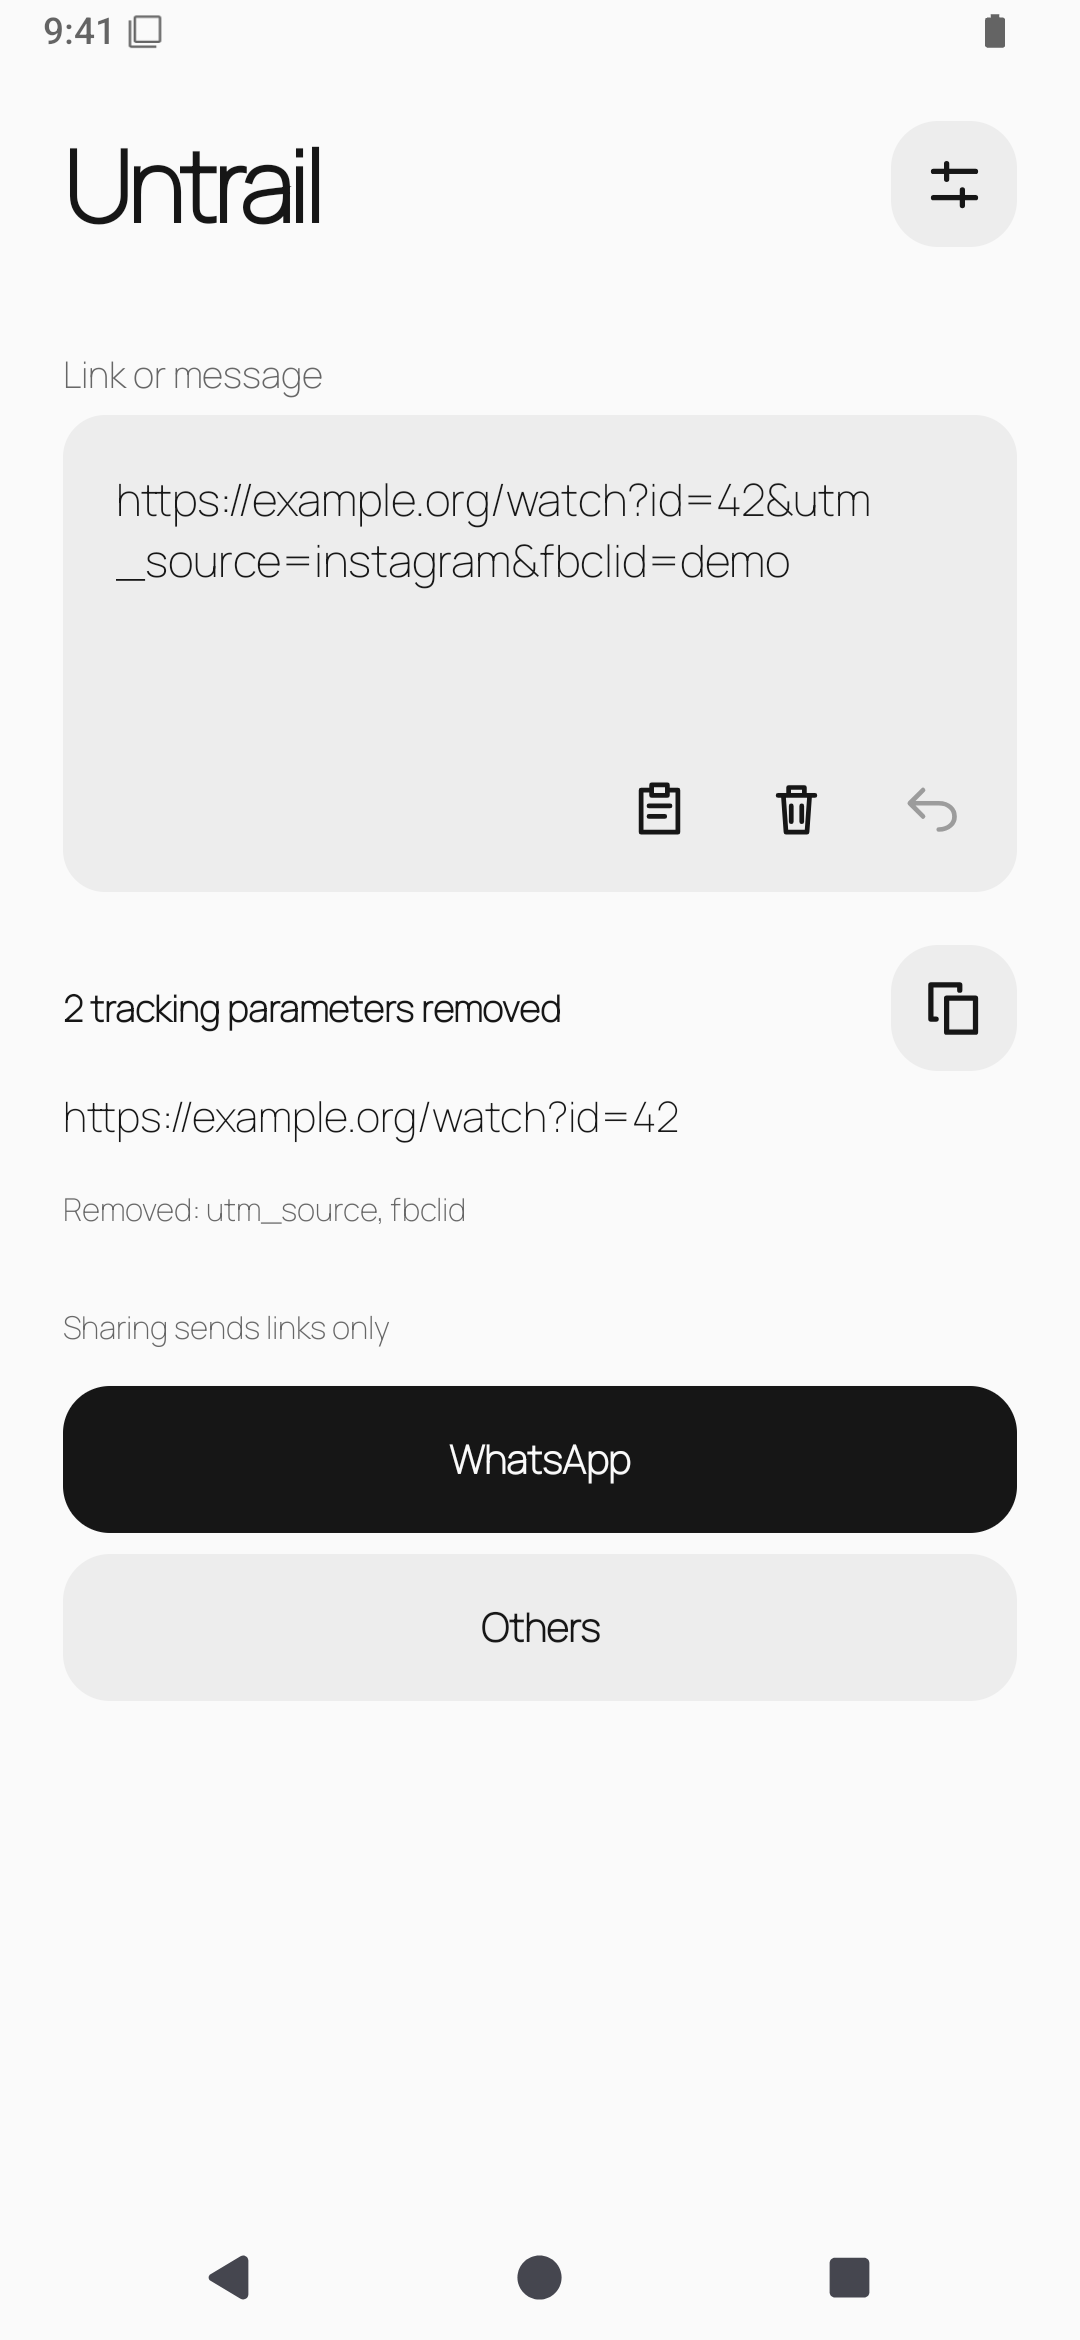
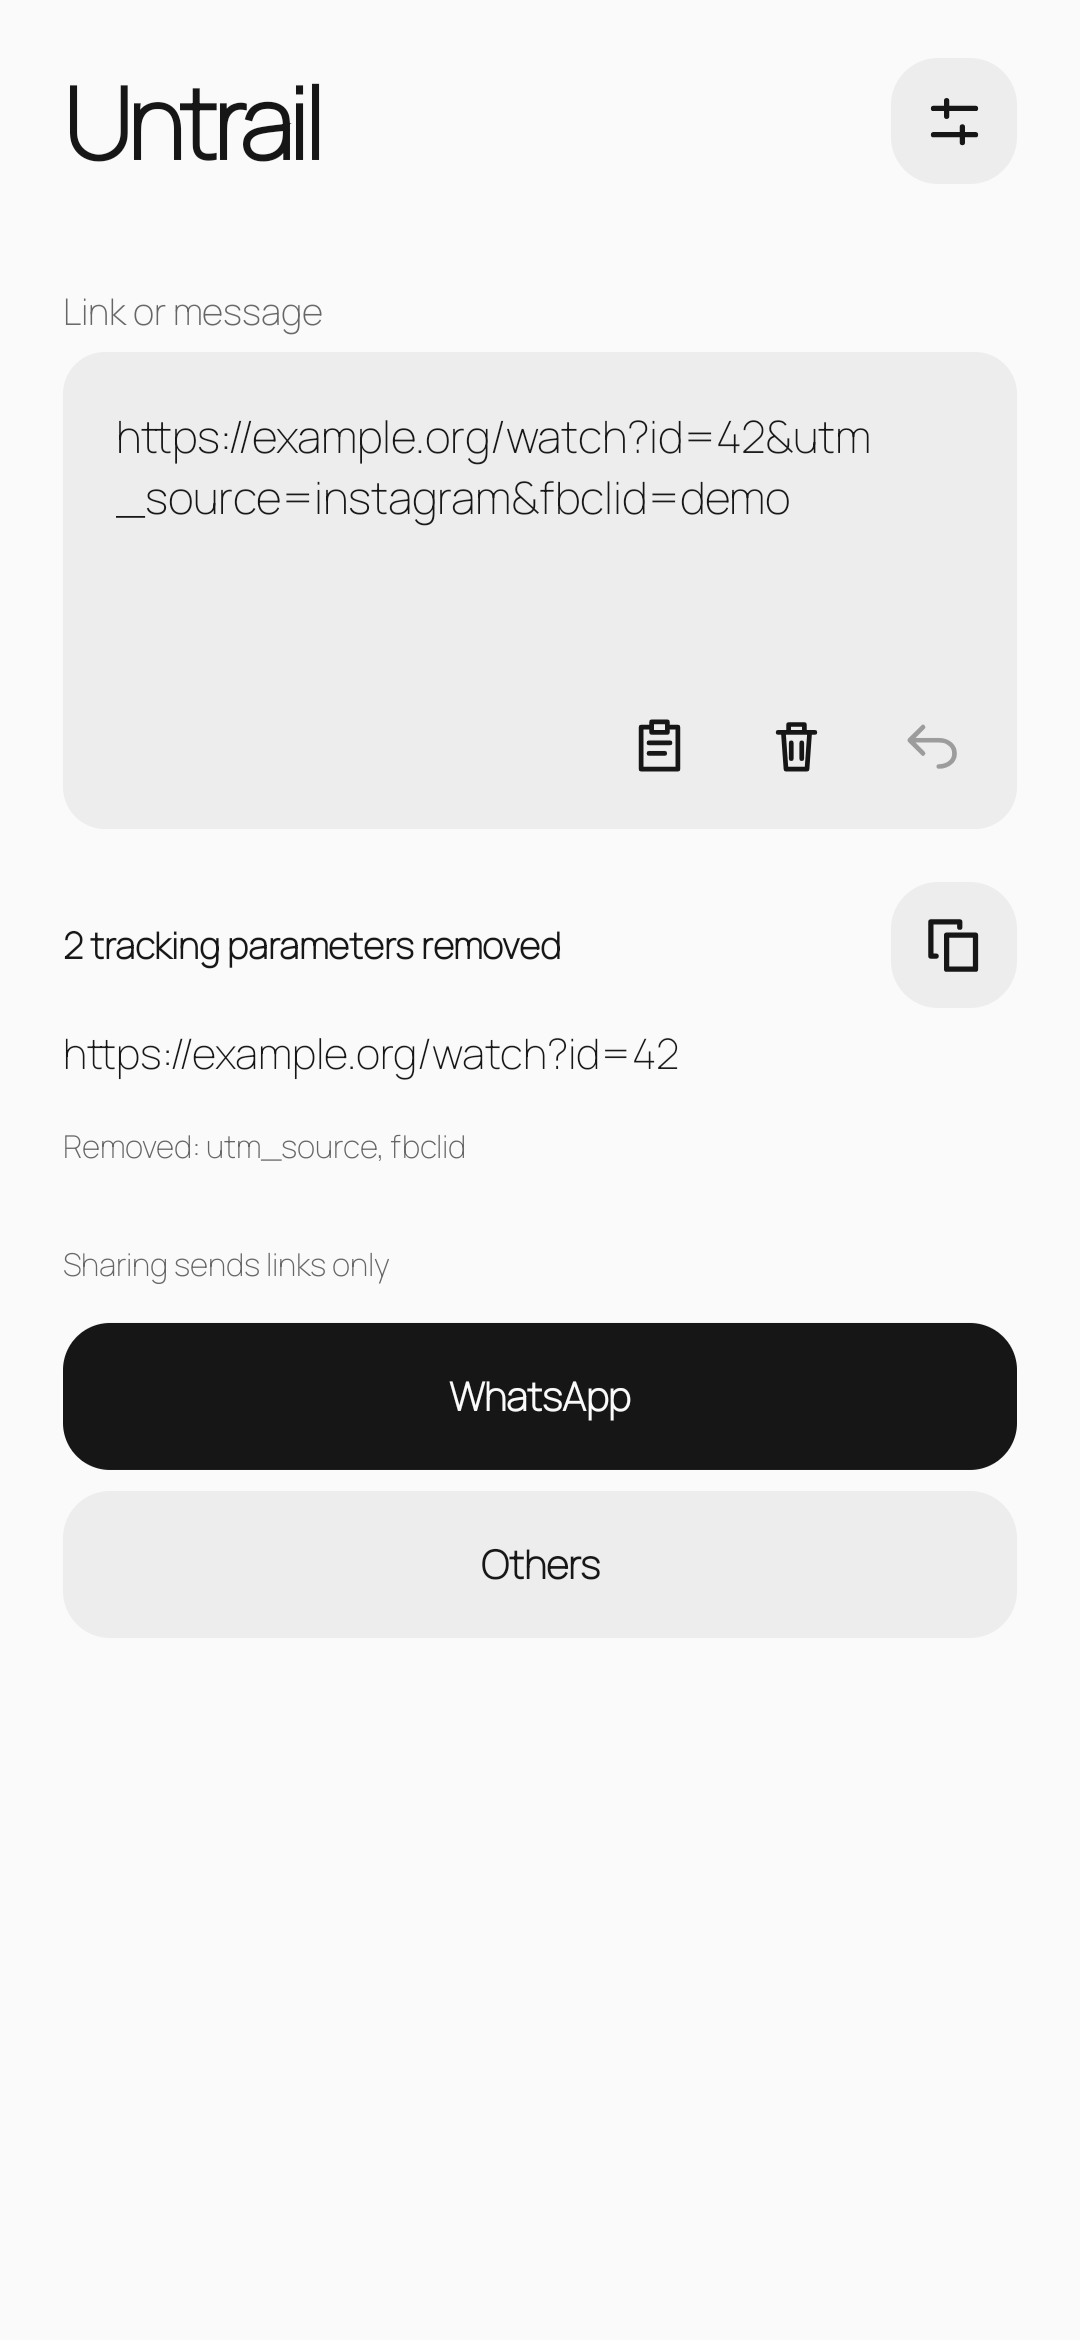
Show matching light and dark screenshots without system bars

diff --git a/README.md b/README.md
@@ -3,7 +3,8 @@
 Clean links before sharing them. A small, offline Android app that removes known tracking parameters, unwraps supported redirects, and leaves the URL ready to send.
 
 <p align="center">
-  <img src="docs/main-screen.png" width="320" alt="Untrail on an Android phone: a tracked link above its cleaned result, with WhatsApp and Others sharing buttons">
+  <img src="docs/main-screen.png" width="320" alt="Untrail in light mode: a tracked link above its cleaned result, with WhatsApp and Others sharing buttons">
+  <img src="docs/main-screen-dark.png" width="320" alt="Untrail in dark mode with the same link, cleaned result, and sharing buttons">
 </p>
 
 ## Use it
@@ -36,7 +37,7 @@ Run the standalone cleaner and draft-policy tests (only a JDK is needed):
 bash scripts/test.sh
 ```
 
-The 109 checks cover link preservation, redirects, long inputs, typing boundaries, Undo, and cursor mapping. On-device checks should also cover sharing, text selection, settings navigation, and accessibility behavior. The README image is an actual Android emulator capture using a fictional example link.
+The 109 checks cover link preservation, redirects, long inputs, typing boundaries, Undo, and cursor mapping. On-device checks should also cover sharing, text selection, settings navigation, and accessibility behavior. The README images are Android emulator captures with system bars hidden, using the same fictional example link in light and dark mode.
 
 ## Release
 
